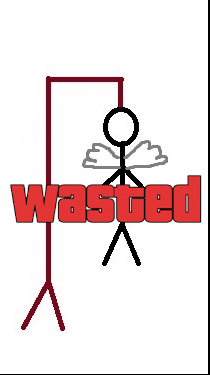
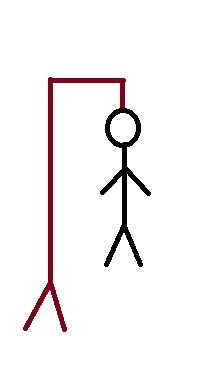
imágenes agregadas y nextImagen modificado

Changed region(s): [[0.0, 0.0, 1.0, 1.0]]

diff --git a/src/main/java/M4/Ahorcado/Ahorcado.java b/src/main/java/M4/Ahorcado/Ahorcado.java
@@ -113,7 +113,7 @@ public class Ahorcado extends JFrame {
 			public void actionPerformed(ActionEvent e) {
 				//Intento quitar una imagen de vida cada vez que se presiona el botón
 				if (contadorVidas >= 0) {
-					quitarVida(paneles_vidas[contadorVidas]);
+					nextImagen(paneles_vidas[contadorVidas]);
 					contadorVidas--;
 				}
 				if (contadorVidas == 0) {
@@ -221,12 +221,6 @@ public class Ahorcado extends JFrame {
 		return random;
 	}
 	
-	//Método manejador de los paneles que contienen las imágenes de vidas, para quitarlas 
-	private void quitarVida(JPanel container) {
-		CardLayout cl = (CardLayout) container.getLayout();
-		cl.next(container);
-	}
-	
 	//Comprueba si la letra presionada se encuentra en la palabra oculta, si está la desoculta y sino cambia la imagen del ahorcado
 	private void eventoTeclado(ActionEvent e, JPanel panel_imagen) {
 		// obtengo el boton presionado y lo desactivo
@@ -239,7 +233,8 @@ public class Ahorcado extends JFrame {
 		if (acerto) {
 			desocultarLetra(letra);
 		} else {
-			if (indexImagenes > 6) {
+			if (indexImagenes > 10) {
+				nextImagen(panel_imagen);
 				JOptionPane.showMessageDialog(contentPane, "Perdiste campeon! ");
 			} else {
 				// Se pasa a la siguiente imagen en el momento que se falla una letra
@@ -250,33 +245,10 @@ public class Ahorcado extends JFrame {
 		}
 	}
 
-	// Declaramos el jpanel_imagen y usamos el metodo .next() del CardLayout
+	// Declaramos el jpanel_imagen y usamos el metodo .next() del CardLayout.
 	private void nextImagen(JPanel container) {
 		CardLayout cl = (CardLayout) container.getLayout();
-
-		switch (indexImagenes) {
-		case 1:
-			cl.next(container);
-			break;
-		case 2:
-			cl.next(container);
-			break;
-		case 3:
-			cl.next(container);
-			break;
-		case 4:
-			cl.next(container);
-			break;
-		case 5:
-			cl.next(container);
-			break;
-		case 6:
-			cl.next(container);
-			break;
-
-		default:
-			break;
-		}
+		cl.next(container);
 
 	}
 }

diff --git a/src/main/java/M4/Ahorcado/CreadorComponentes.java b/src/main/java/M4/Ahorcado/CreadorComponentes.java
@@ -24,7 +24,7 @@ public class CreadorComponentes{
 	
 	public JLabel[] getImagenesAhorcado() {
 		LectorImagenes li = new LectorImagenes();
-		JLabel[] image_labels = new JLabel[7];
+		JLabel[] image_labels = new JLabel[12];
 		for (int i = 0; i < image_labels.length; i++) {
 			image_labels[i] = li.getImagenAhorcado(i + 1);
 			image_labels[i].setBounds(0, 0, 274, 399);
